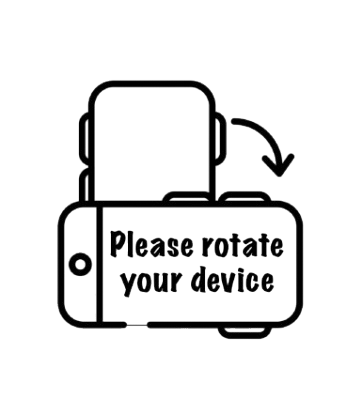
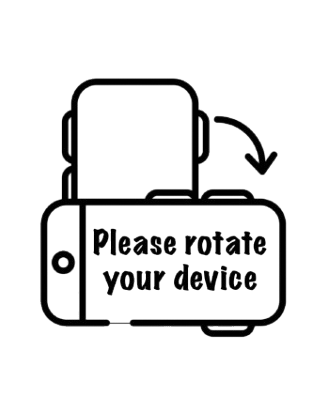
added music button with class musicBtn and toggleMusic()

Changed region(s): [[0.1227, 0.1782, 0.8896, 0.8317], [0.7362, 0.297, 0.8589, 0.4455], [0.8589, 0.7426, 0.8896, 0.7723]]

diff --git a/assets/templates/templates.js b/assets/templates/templates.js
@@ -8,7 +8,7 @@ function getSettingsTemplate() {
         <div id="settingsMenu" class="settingsMenu">
             <h2>Settings</h2>
             <div class="settingsLinks">
-                <a onclick="showSound()">Sounds</a>
+                <a onclick="showSounds()">Sounds</a>
                 <a onclick="showControls()">Controls</a>
                 <a onclick="showImprint()">Imprint</a>
                 <a onclick="closeSettings()">Close</a>
@@ -27,6 +27,7 @@ function getSoundTemplate() {
         <div id="settingsMenu" class="settingsMenu">
             <h2>Sound</h2>
             <button id="sounds" class="soundBtn" onclick="toggleSound()">Sound off</button>
+            <button id="music" class="musicBtn" onclick="toggleMusic()">Music off</button>
             <a onclick="showSettings()">Back</a>
         </div>
     `;

diff --git a/styles/mediaQuery.css b/styles/mediaQuery.css
@@ -13,6 +13,19 @@
 }
 
 /*
+ * Devices with max. width 420px.
+ */
+ @media only screen and (max-width: 420px) {
+    h1 {
+        font-size: 48px;
+    }
+
+    .rotateDevice {
+        height: 400px;
+    }
+}
+
+/*
  * Devices with max. height 480px.
  */
 @media only screen and (max-height: 480px) {
@@ -94,7 +107,8 @@
         box-shadow: -4px 4px 0 #9A3A18;
     }
 
-    .soundBtn:hover {
+    .soundBtn:hover,
+    .musicBtn:hover {
         cursor: inherit !important;
         color: rgba(100, 20, 5);
         background-color: transparent;

diff --git a/levels/level1.js b/levels/level1.js
@@ -1,5 +1,16 @@
 let level1;
 
+/**
+ * Initializes the game level by creating a new Level instance.
+ *
+ * The following elements are included:
+ * - Bottles: 15 instances of Bottle objects.
+ * - Enemies: 7 Chickens, 8 SmallChickens, and 1 Endboss.
+ * - Clouds: 8 instances of Cloud objects.
+ * - Background: Multiple layers of background objects with different images and positions.
+ *
+ * This function assigns the created Level instance to the global variable `level1`.
+ */
 function initLevel() {
     level1 = new Level(
         [],

diff --git a/script/game.js b/script/game.js
@@ -13,13 +13,13 @@ const overlay = document.getElementById("overlaySettings");
 function startGame() {
     showCanvas();
     initLevel();
-    initializeWorld();
+    initWorld();
 }
 
 /**
  * Initializes the world with the canvas and keyboard.
  */
-function initializeWorld() {
+function initWorld() {
     world = new World(canvas, keyboard);
 }
 
@@ -153,7 +153,11 @@ function stopGame() {
 
 }
 
-function toggleSound() {
+function toggleSounds() {
+
+}
+
+function toggleMusic() {
 
 }
 

diff --git a/styles/style.css b/styles/style.css
@@ -185,7 +185,8 @@ img.fullscreenSettings {
     position: relative;
 }
 
-.soundBtn {
+.soundBtn,
+.musicBtn {
     margin: 15px;
     font-size: 24px;
     color: rgb(100, 20, 5);
@@ -272,7 +273,8 @@ img.active:hover {
     box-shadow: -2px 2px 0 #9A3A18;
 }
 
-.soundBtn:hover {
+.soundBtn:hover,
+.musicBtn:hover {
     cursor: pointer;
     color: white;
     background-color: rgba(100, 20, 5);
